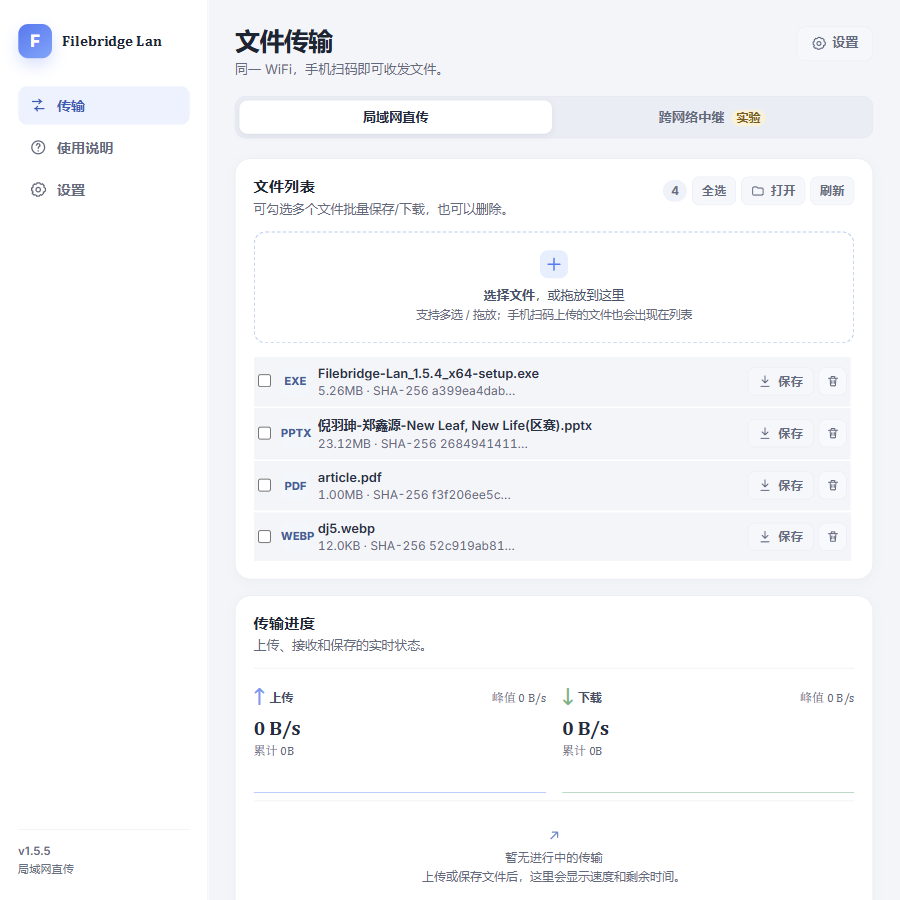
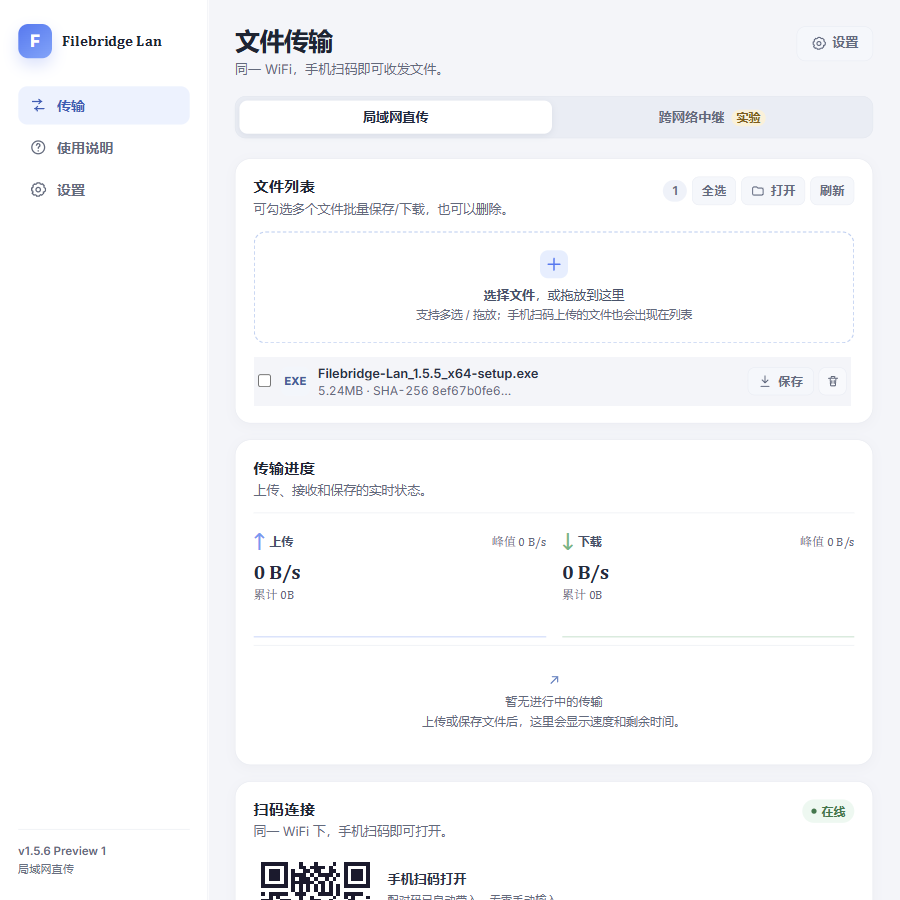
release: prepare 1.5.6-preview.1

diff --git a/src/App.tsx b/src/App.tsx
@@ -168,7 +168,7 @@ export default function App() {
         <main className="receiver-main">
           <RelayTransfer initialLink={relayLink} standalone />
         </main>
-        <footer className="app-footer">Filebridge-Lan v1.5.5 · 实验性中继</footer>
+        <footer className="app-footer">Filebridge-Lan v1.5.6 Preview 1 · 实验性中继</footer>
         <BackToTop />
       </div>
     );
@@ -219,7 +219,7 @@ export default function App() {
         </nav>
 
         <div className="sidebar-foot">
-          <span className="sidebar-version">v1.5.5</span>
+          <span className="sidebar-version">v1.5.6 Preview 1</span>
           <span className="sidebar-mode">{activeMode === 'lan' ? '局域网直传' : '跨网络中继 · 实验'}</span>
         </div>
       </aside>
@@ -287,7 +287,7 @@ export default function App() {
           )}
         </main>
 
-        <footer className="app-footer">Filebridge-Lan v1.5.5 · 局域网直传 / 实验性中继</footer>
+        <footer className="app-footer">Filebridge-Lan v1.5.6 Preview 1 · 局域网直传 / 实验性中继</footer>
       </div>
 
       {helpOpen && (

diff --git a/src/components/SettingsPanel.tsx b/src/components/SettingsPanel.tsx
@@ -177,7 +177,7 @@ export function SettingsPanel({ onClose }: SettingsPanelProps) {
           <span className="about-mark">F</span>
           <div>
             <strong>Filebridge-Lan</strong>
-            <span>版本 1.5.5</span>
+            <span>版本 1.5.6 Preview 1</span>
           </div>
           <button
             type="button"

diff --git a/docs/RELEASE-1.5.6-preview.1.md b/docs/RELEASE-1.5.6-preview.1.md
@@ -1,0 +1,54 @@
+# Filebridge-Lan 1.5.6 Preview 1
+
+发布日期：待 CI Draft 双机复核后确定
+
+这是 `1.5.6` 的第一个 Preview。v1.5.5 的 Public 门禁通过，但真实双机测试未看到远端自动断联提示，因此 v1.5.5 未发布；本次仅修复远端断联检测和反馈。
+
+## 修复内容
+
+- Hub 健康检查使用 `AbortController` 硬超时（2 秒），避免主机停止后请求无限挂起。
+- 健康探测串行化：前一次探测未完成时不会叠加新请求。
+- 连续两次失败才进入离线；成功后重置失败计数，避免单次网络抖动误报。
+- 远端页面顶部显示 `role="alert"` 的主机不可用提示；保留最后文件列表并标记“离线缓存，可能已过期”。
+- 离线时立即禁用文件选择、拖放、待上传队列的“开始上传”、保存/下载、删除和批量操作。
+- 恢复 Private 后，下一次成功探测自动恢复在线、刷新文件列表并解除禁用，无需刷新页面。
+- Rust Hub 和 Node Hub 每 5 秒发送 `heartbeat` SSE 事件；客户端超过 10 秒没有收到任何 SSE 事件时主动标记异常并触发探测。
+- SSE `onerror` 也立即触发探测，不再只等待上传失败暴露问题。
+- 主机本机 Public 暂停 UI 与远端“主机不可达”提示保持区分。
+- Public 安全门禁、Safari Fetch 上传和断点续传逻辑不变。
+
+## 验收背景
+
+v1.5.5 已用两台真实电脑测试：
+
+- 主机切 Public 后本机立即暂停；
+- 42080/42081 停止监听；
+- 远端不能继续上传；
+- 但远端没有及时显示明确断联提示，只有尝试上传时才暴露 Hub 不可用。
+
+因此 v1.5.5 保持 Draft 并标记废弃。1.5.6 Preview 1 需要在两台真实电脑上重新验证自动断联与恢复。
+
+## 验证状态
+
+已通过：
+
+- `npm run check`
+- `npm run build`
+- `npm run test:connection`（连接监测状态机 6 项）
+- `npm run test:version`
+- `npm run test:hub`（含 SSE heartbeat）
+- `npm run test:resume`
+- `npm run test:offsets`
+- `npm run test:bridge`
+- `cargo test`
+- `cargo check`
+
+仍需最终 CI 安装包真机复核：
+
+- 两台电脑都显示 `1.5.6-preview.1`；
+- Private 下发现、批准、上传和下载；
+- 主机切 Public 后远端约 5 秒内显示“主机服务不可用”，上传和删除入口禁用；
+- 切回 Private 后远端自动恢复、刷新文件列表；
+- iPhone Safari 上传和续传不回归；
+- iPhone Edge / Android 对照；
+- 最终安装器防火墙规则状态。

diff --git a/README.md b/README.md
@@ -41,14 +41,14 @@
 界面使用 Local Workbench 方向：固定侧栏、任务优先的卡片、Cambria 品牌与重点标题、Microsoft YaHei 中文和实际加载的 Inter 功能文本。上传诊断默认折叠；Safari 照片上传支持连续选择后统一上传。
 ## 直接安装（Windows）
 
-从 [GitHub Releases](https://github.com/8hourseontheleft6/Filebridge-Lan/releases) 下载 `Filebridge-Lan_1.5.5_x64-setup.exe`，或本地构建：
+从 [GitHub Releases](https://github.com/8hourseontheleft6/Filebridge-Lan/releases) 下载 `Filebridge-Lan_1.5.6-preview.1_x64-setup.exe`，或本地构建：
 
 ```bash
 npm install
 npm run tauri build
 ```
 
-产物：`src-tauri/target/release/bundle/nsis/Filebridge-Lan_1.5.5_x64-setup.exe`
+产物：`src-tauri/target/release/bundle/nsis/Filebridge-Lan_1.5.6-preview.1_x64-setup.exe`
 
 - 默认按当前用户安装到 `%LOCALAPPDATA%\Filebridge-Lan`
 - 安装结束时如出现 **UAC** 提示，请允许一次：移除防火墙 Block 规则，并放行专用网络的 TCP 42080 + UDP 42081
@@ -56,7 +56,7 @@ npm run tauri build
 - 首次运行如防火墙弹窗，请允许专用网络（TCP 42080 + UDP 42081）
 - SHA-256 见 GitHub Release 的资产 digest
 
-版本说明：[docs/RELEASE-1.5.5.md](docs/RELEASE-1.5.5.md)
+版本说明：[docs/RELEASE-1.5.6-preview.1.md](docs/RELEASE-1.5.6-preview.1.md)
 
 > 从旧版本升级：首次启动会尝试把 `Downloads\FileBridge` 数据目录迁移到 `Downloads\Filebridge-Lan`。
 
@@ -168,7 +168,9 @@ Filebridge-Lan/
 ```bash
 npm run check
 npm run build
-npm run test:version    # package/Tauri/Cargo/Node Hub/Bridge 版本一致性\nnpm run test:hub        # Node Hub 冒烟测试（含配对/鉴权）
+npm run test:version    # package/Tauri/Cargo/Node Hub/Bridge 版本一致性
+npm run test:connection # 远端健康探测/心跳状态机
+npm run test:hub        # Node Hub 冒烟测试（含配对/鉴权）
 npm run test:bridge     # 加密中继 API 冒烟测试
 node scripts/relay-hash-test.mjs  # 增量 SHA-256 测试
 cargo test --manifest-path src-tauri/Cargo.toml

diff --git a/CHANGELOG.md b/CHANGELOG.md
@@ -1,5 +1,13 @@
 # Changelog
 
+## 1.5.6-preview.1 - Preview
+
+- 修复主机停止服务后远端健康检查长时间挂起：2 秒硬超时、探测串行化、连续两次失败才离线
+- Rust/Node Hub 新增每 5 秒 SSE heartbeat；客户端 10 秒无事件主动触发探测和离线
+- 远端页面顶部新增主机不可用提示，保留离线缓存并禁用上传、下载、删除和批量操作
+- Private 恢复后自动重新探测、刷新列表并解除禁用
+- v1.5.5 因远端断联提示未通过真实双机验收而未发布
+
 ## 1.5.5 - Draft
 
 - 修复 Hub API 与桌面程序版本不一致：Rust 使用 `CARGO_PKG_VERSION`，Node Hub/Bridge 从 `package.json` 读取
